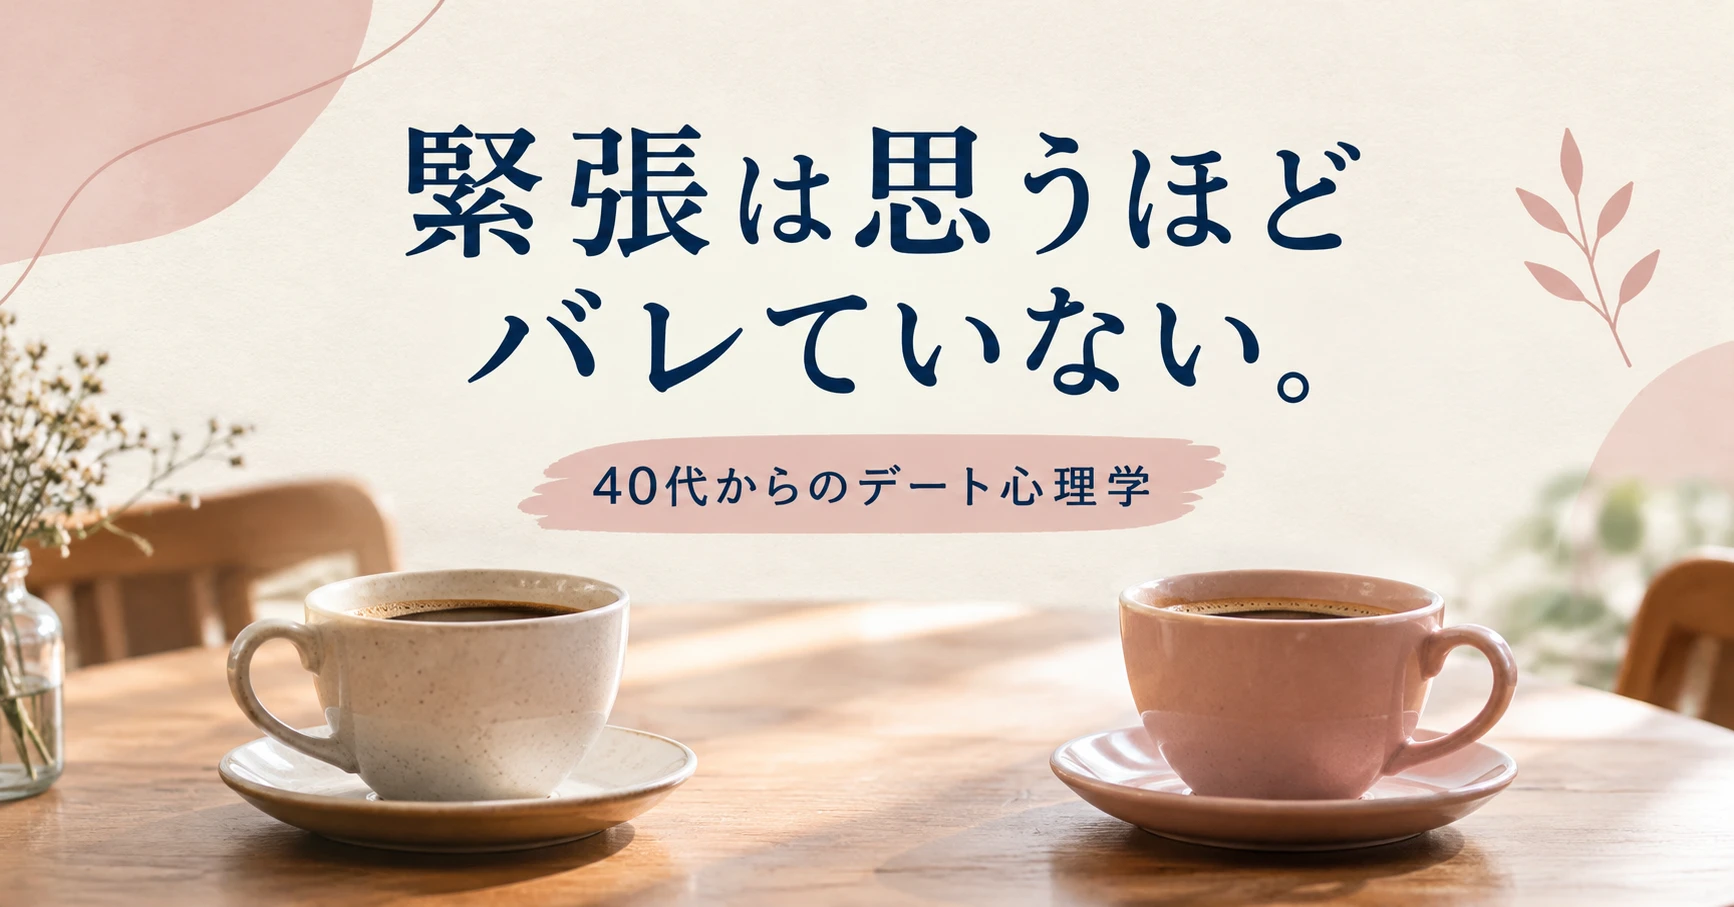
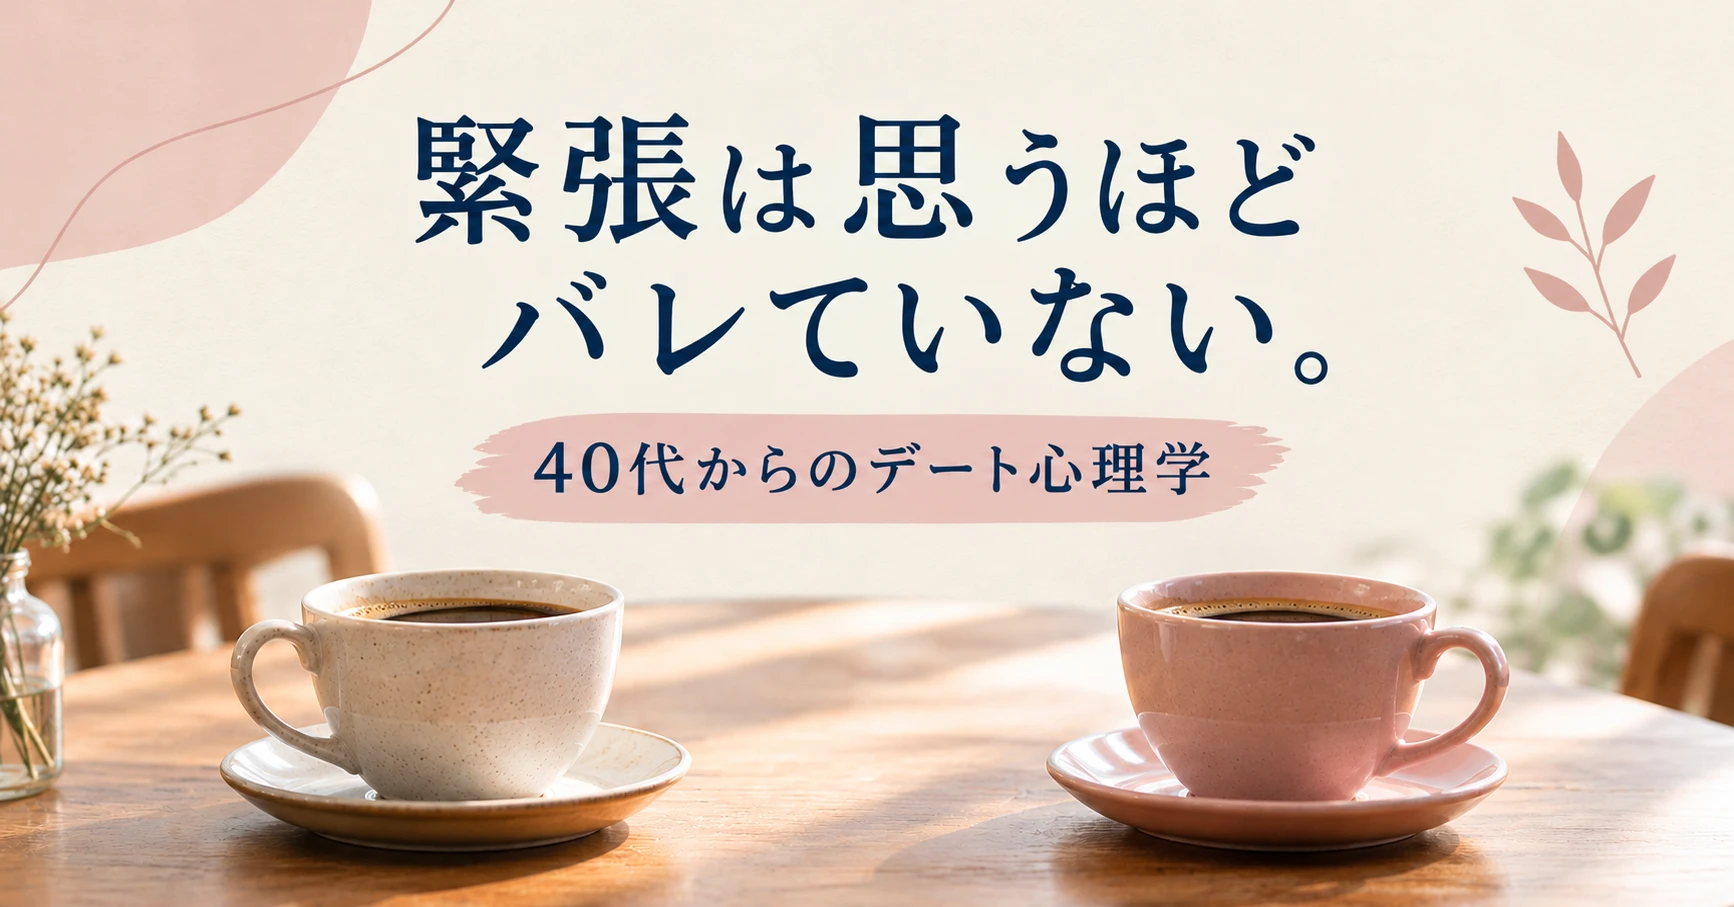
表紙をサブ文字拡大の修正版に差し替え
Claude-Session: https://claude.ai/code/session_01TgFWBYba1CnAUW49KLZJCF

diff --git a/note/04_販売素材/20261030_40代からの恋愛_デザイン.md b/note/04_販売素材/20261030_40代からの恋愛_デザイン.md
@@ -135,7 +135,7 @@
 |------|------|------|
 | タイムライン(幅390px)でメイン文字が読める | OK | 太い明朝体で、細い線もつぶれていない |
 | 一覧(幅120px)でメイン文字が読める | OK | 「緊張は思うほど/バレていない。」まで読める |
-| サブ文字「40代からのデート心理学」 | △ | スマホでは約9pxと小さめ。1.3〜1.5倍に大きくするとより読みやすい |
+| サブ文字「40代からのデート心理学」 | OK | 修正版で約1.4倍に拡大。スマホで約12px、一覧の小さい表示でも文字の形が分かる |
 | 文字が中央にあり、端が切れても欠けない | OK | |
 | 写真が文字のじゃまをしていない | OK | 文字は無地の上半分、カップは下半分 |
 | 人の顔が写っていない | OK | |

diff --git a/note/01_企画/20261030_40代からの恋愛_公開判断.md b/note/01_企画/20261030_40代からの恋愛_公開判断.md
@@ -28,7 +28,7 @@
 - [ ] 11/9〜11/15 の公開週のThreads投稿を、Threads担当が11/8までに仕上げる
 
 ## 任意(やるとさらに良い)
-- 表紙のサブ文字「40代からのデート心理学」を1.3〜1.5倍に大きくする
+- ~~表紙のサブ文字を大きくする~~ → 対応済み(修正版の表紙に差し替え)
 - 見出しをデザイナーのおすすめ案(思い込み①〜③を読者の心の声にする など)に差し替える
 
 ## 次回作
